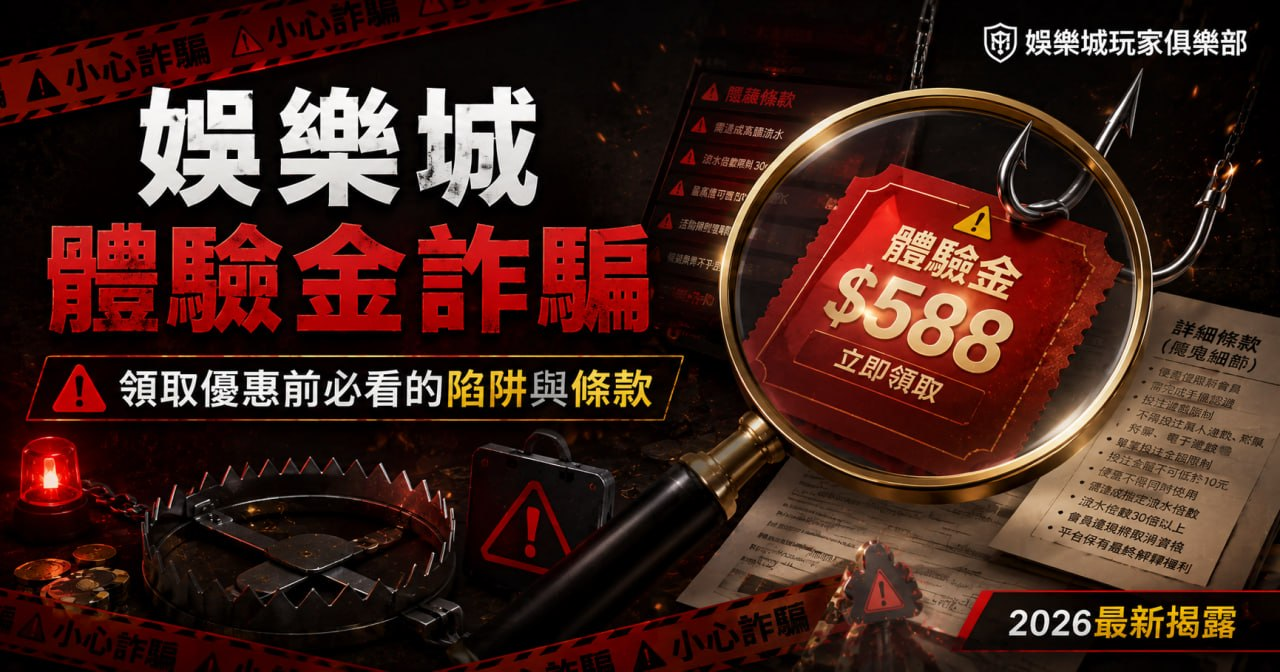
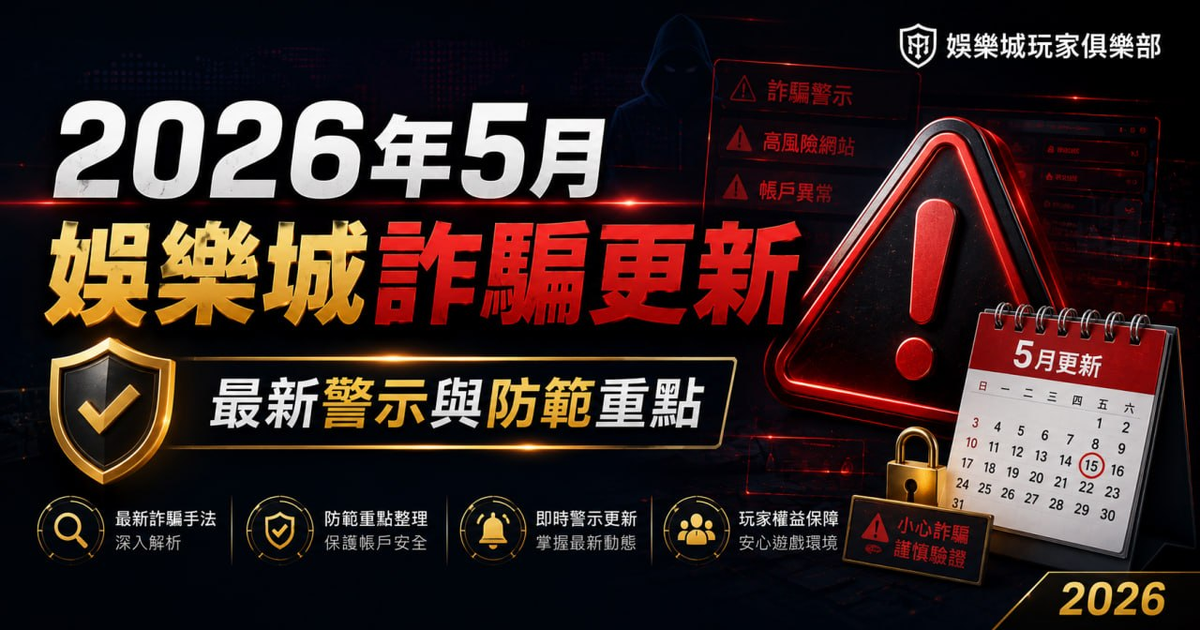
fix: update scam article cover + fix homepage layout + remove broken links
- Update casino-scam-update-may-2026 cover image (new PNG 1200x630)
- Fix homepage: 1 Featured + 6 small cards (remove extra card)
- Remove broken /static/js/main.js reference from index.html
- Fix missing casino-romance-scam-cover.webp in articles/index.html

diff --git a/index.html b/index.html
@@ -176,22 +176,22 @@
                     <span class="card-readmore">閱讀完整指南 →</span>
                 </div>
             </a>
-            <a href="/articles/casino-experience-bonus-scam-2026" class="article-card featured" style="margin-bottom: 24px; text-decoration: none; color: inherit;">
-                <div class="card-image">
-                    <img src="/static/images/articles/casino-experience-bonus-scam-2026-cover.png" alt="娛樂城體驗金詐騙｜領取優惠前必看的陷阱與條款" loading="lazy">
-                </div>
-                <div class="card-content">
-                    <div class="card-meta">
-                        <span class="card-badge scam">⚠ 詐騙警示</span>
-                        <span>2026年5月22日</span>
-                    </div>
-                    <h3 class="card-title">娛樂城體驗金詐騙｜優惠詐騙陷阱全解析：領取前必看的條款與自救指南</h3>
-                    <p class="card-excerpt">揭露體驗金詐騙與優惠詐騙陷阱！黑網如何利用高額體驗金誘騙玩家？領取前必看的5個危險信號、魔鬼條款解析與自救法。</p>
-                    <span class="card-readmore">閱讀完整指南 →</span>
-                </div>
-            </a>
             <!-- 一般文章網格 -->
             <div class="article-grid-v2">
+                <a href="/articles/casino-experience-bonus-scam-2026" class="article-card scam-alert">
+                    <div class="card-image">
+                        <img src="/static/images/articles/casino-experience-bonus-scam-2026-cover.png" alt="娛樂城體驗金詐騙｜領取優惠前必看的陷阱與條款" loading="lazy">
+                    </div>
+                    <div class="card-content">
+                        <div class="card-meta">
+                            <span class="card-badge scam">⚠ 詐騙警示</span>
+                            <span>2026年5月22日</span>
+                        </div>
+                        <h3 class="card-title">娛樂城體驗金詐騙｜優惠詐騙陷阱全解析：領取前必看的條款與自救指南</h3>
+                        <p class="card-excerpt">揭露體驗金詐騙與優惠詐騙陷阱！黑網如何利用高額體驗金誘騙玩家？領取前必看的5個危險信號、魔鬼條款解析與自救法。</p>
+                        <span class="card-readmore">閱讀完整指南 →</span>
+                    </div>
+                </a>
                 <a href="/articles/mbm-casino-review-may-2026" class="article-card review-card">
                     <div class="card-image">
                         <img src="/static/images/articles/reviews/mbm-casino-review-may-2026-cover.png" alt="MBM娛樂城2026年5月評價" loading="lazy">
@@ -259,20 +259,6 @@
                         </div>
                         <h3 class="card-title">HG娛樂城2026年5月優惠整理：首儲與返水活動實測</h3>
                         <p class="card-excerpt">HG娛樂城5月最新優惠整理！首儲活動、返水比例、每日加碼優惠完整實測...</p>
-                        <span class="card-readmore">閱讀全文 →</span>
-                    </div>
-                </a>
-                <a href="/articles/casino-license-verification-2026" class="article-card">
-                    <div class="card-image">
-                        <img src="/static/images/articles/scam/casino-license-verification-2026-cover.webp" alt="娛樂城牌照查證" loading="lazy">
-                    </div>
-                    <div class="card-content">
-                        <div class="card-meta">
-                            <span class="card-badge guide">教學</span>
-                            <span>2026年5月11日</span>
-                        </div>
-                        <h3 class="card-title">如何查詢娛樂城牌照與合法性：官方認證3步驟驗證法</h3>
-                        <p class="card-excerpt">3步驟驗證平台合法性，從官方監管機構查詢、牌照真偽辨識到黑網資料庫比對...</p>
                         <span class="card-readmore">閱讀全文 →</span>
                     </div>
                 </a>
@@ -697,7 +683,7 @@
         </div>
     </footer>
 
-    <script src="/static/js/main.js"></script>
+
     <script src="/static/js/floating-cta.js"></script>
     <script src="/static/js/mobile-menu.js"></script>
 </body>

diff --git a/articles/index.html b/articles/index.html
@@ -417,7 +417,7 @@
                 </a>
                                     <a href="/articles/casino-romance-scam" class="article-card scam-alert">
                     <div class="card-image">
-                        <img src="/static/images/articles/scam/casino-romance-scam-cover.webp" alt="娛樂城愛情詐騙揭秘：交友軟體假帳號識別完全指南（2026）" loading="lazy">
+                        <img src="/static/images/articles/scam/fake-line-official-account-cover.webp" alt="娛樂城愛情詐騙揭秘：交友軟體假帳號識別完全指南（2026）" loading="lazy">
                     </div>
                     <div class="card-content">
                         <div class="card-meta">
